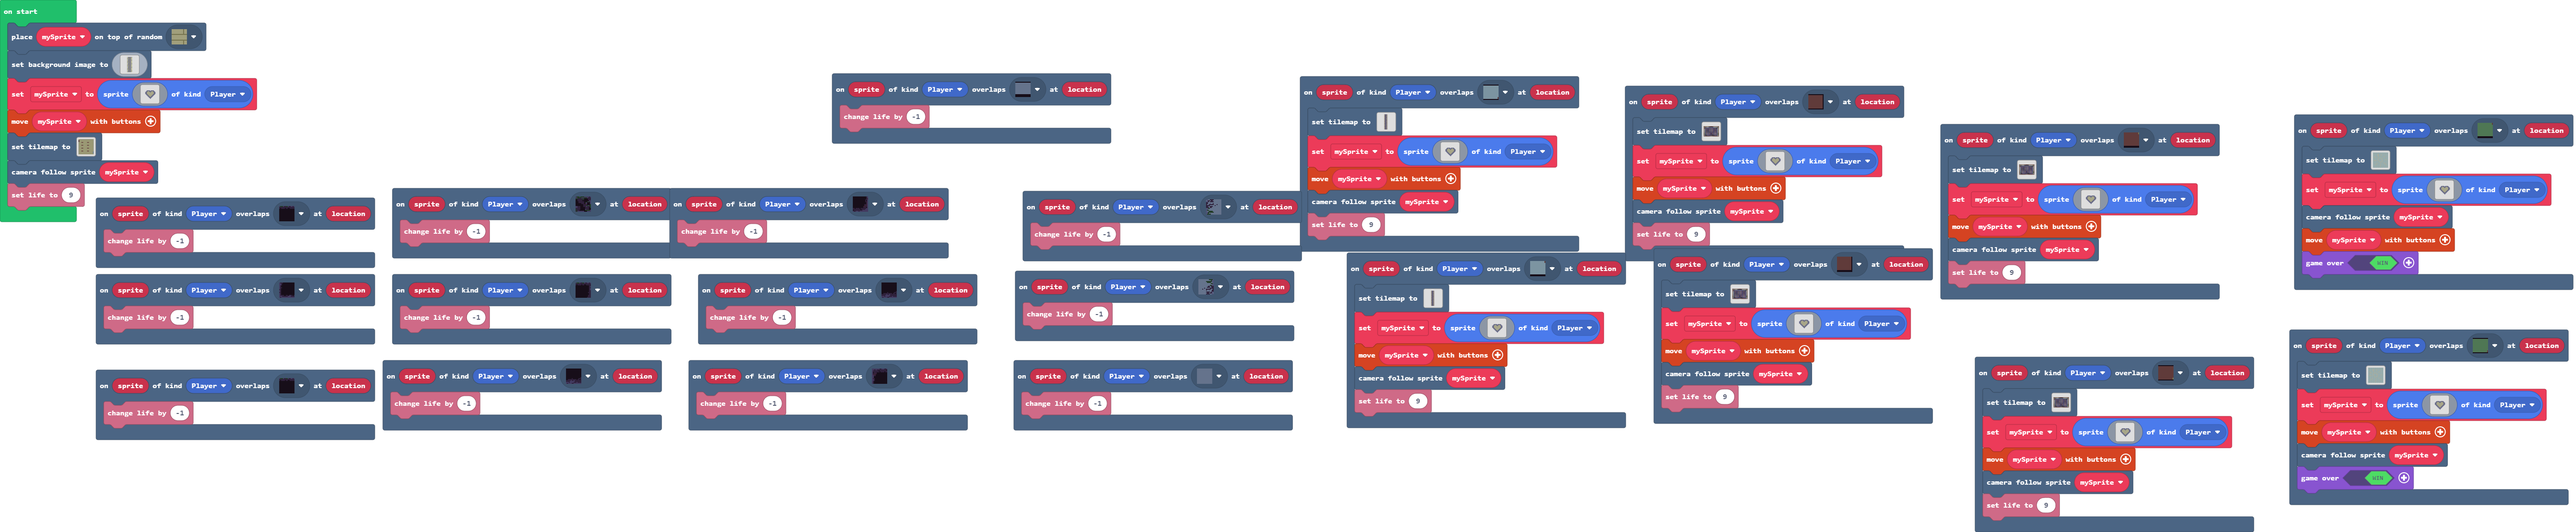
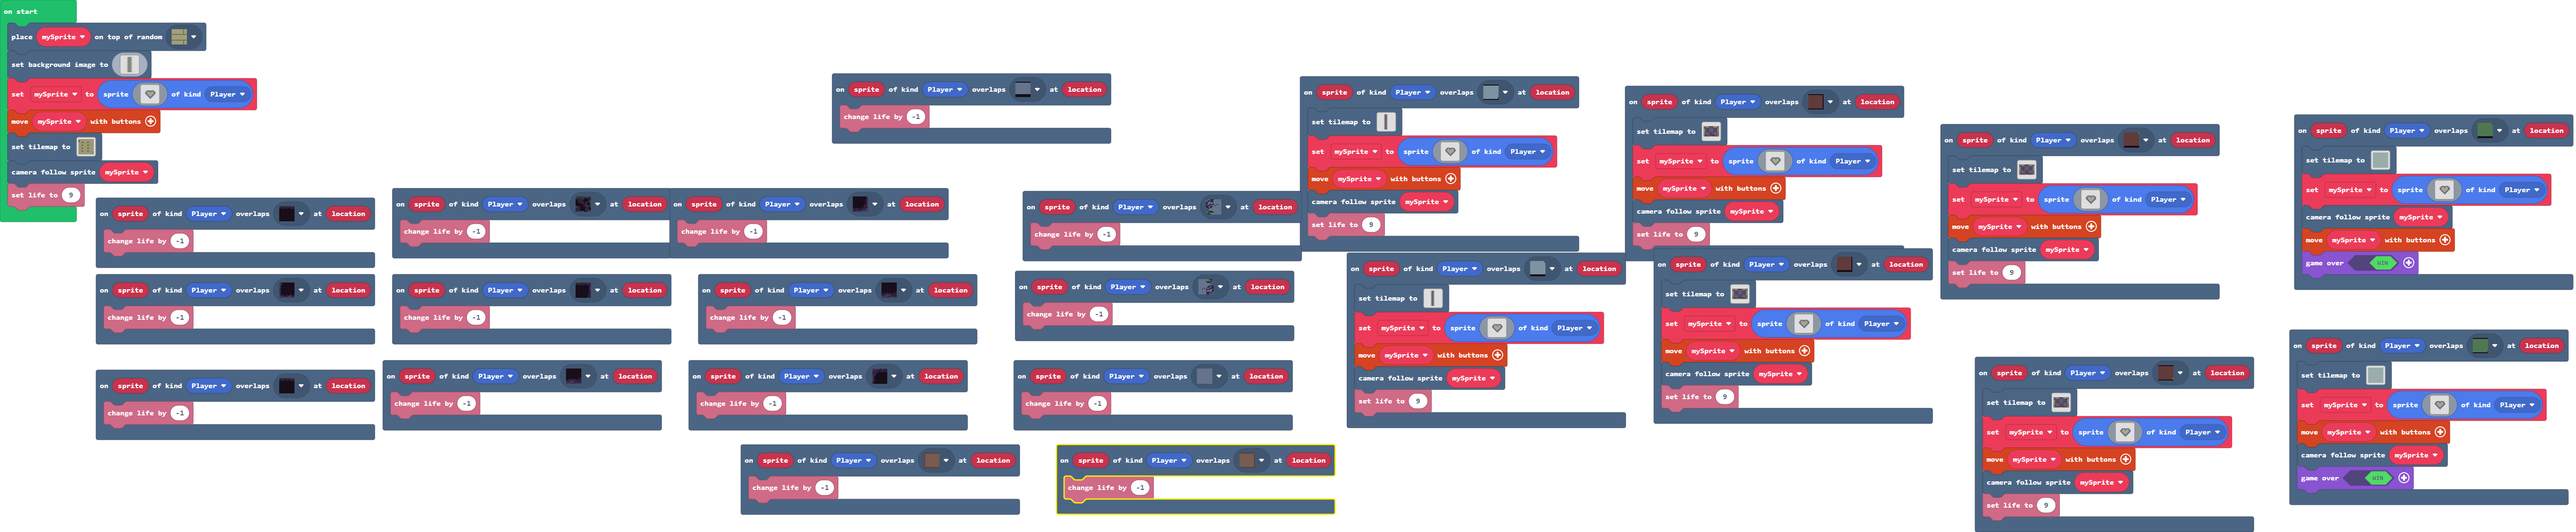
Update main.blocks, main.ts

Changed region(s): [[0.2806, 0.8248, 0.53, 0.9775]]

diff --git a/main.ts b/main.ts
@@ -1,3 +1,9 @@
+scene.onOverlapTile(SpriteKind.Player, assets.tile`myTile77`, function (sprite, location) {
+    info.changeLifeBy(-1)
+})
+scene.onOverlapTile(SpriteKind.Player, assets.tile`myTile79`, function (sprite, location) {
+    info.changeLifeBy(-1)
+})
 scene.onOverlapTile(SpriteKind.Player, assets.tile`myTile94`, function (sprite, location) {
     tiles.setTilemap(tilemap`level1`)
     mySprite = sprites.create(img`
